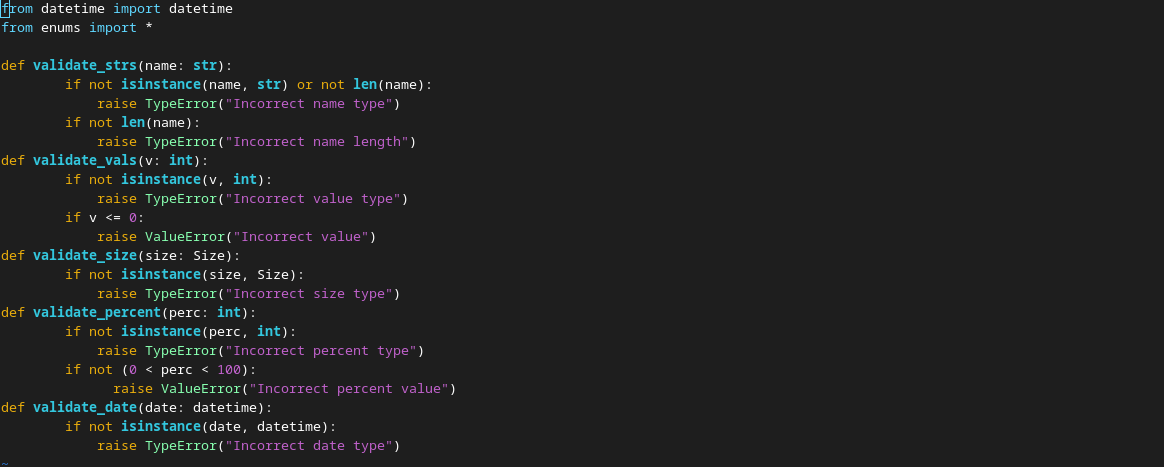
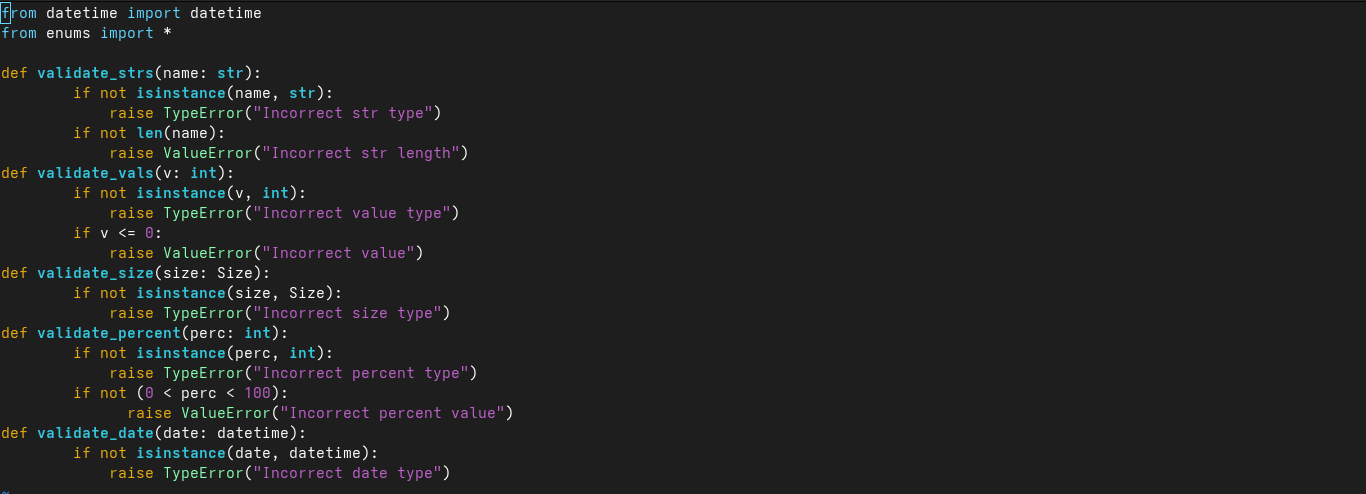
.

Changed region(s): [[0.0, 0.1199, 0.4021, 0.9893], [0.0, 0.0, 0.2165, 0.0899], [0.0, 0.9893, 0.0309, 1.0]]

diff --git a/lab01/demo.py b/lab01/demo.py
@@ -35,6 +35,16 @@ except ValueError as e:
 
 try:
     p2.name = '' # установка пустого названия продукта 
+except ValueError as e:
+    print(f"{e}")
+
+try:
+    p2.description = ''
+except ValueError as e:
+    print(f"{e}")
+
+try:
+    p2.size = 2
 except TypeError as e:
     print(f"{e}")
 
@@ -43,12 +53,13 @@ p2.write_data(Style.NORMAL, Fore.CYAN, width=100, height=15) # записать 
 
 fd = open("data", O_WRONLY | O_CREAT)
 p2.write_data(fd=fd) #запись в файл
+remove("data")
 close(fd)
 
 print(p2.history) # история изменения скидки у объекта
 p2.pop_discount() # удаление последней установленной скидки
 print(p2.discount)
 print(p2.cost)
-print(p2.curr_cost)
+print(p2.curr_cost) # изменяется в зависимости от текущей скидки
 print(p2.id)
 print(p2.top_item)

diff --git a/lab01/validate.py b/lab01/validate.py
@@ -2,10 +2,10 @@ from datetime import datetime
 from enums import *
 
 def validate_strs(name: str):
-        if not isinstance(name, str) or not len(name):
-            raise TypeError("Incorrect name type")
+        if not isinstance(name, str):
+            raise TypeError("Incorrect str type")
         if not len(name):
-            raise TypeError("Incorrect name length")
+            raise ValueError("Incorrect str length")
 def validate_vals(v: int):
         if not isinstance(v, int):
             raise TypeError("Incorrect value type")

diff --git a/lab01/model.py b/lab01/model.py
@@ -1,6 +1,5 @@
 from enum import Enum
 from re import sub
-
 from datetime import date, datetime, time
 from colorama import Fore, Style
 from validate import *

diff --git a/lab01/README.md b/lab01/README.md
@@ -72,7 +72,8 @@
 ![bus1](../images/lab01/bus1.png)
 
 ### /lab01/demo.py
-![demo](../images/lab01/demo.png)
+![demo1](../images/lab01/demo1.png)
+![demo2](../images/lab01/demo2.png)
 ### Вывод
 ![out1](../images/lab01/term_out1.png)
 ![out2](../images/lab01/term_out2.png)
